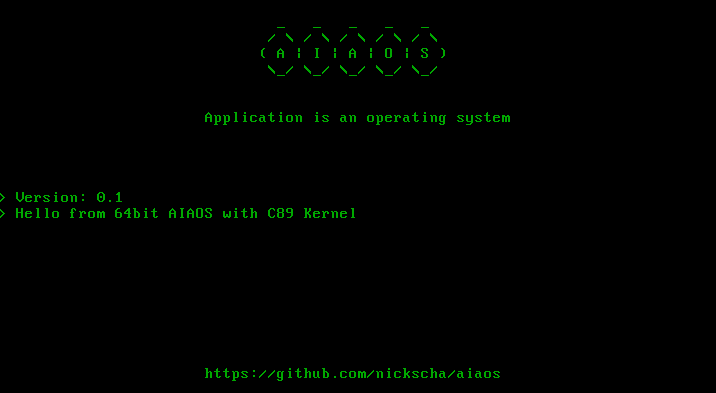
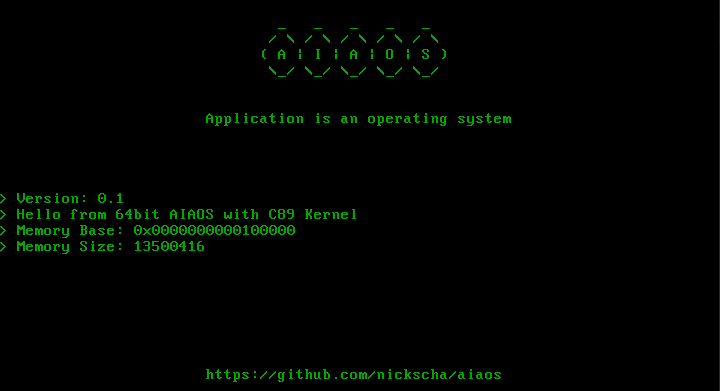
[CORE] upper memory detection INT 0x15, EAX=0xE820

diff --git a/aiaos_kernel.c b/aiaos_kernel.c
@@ -8,6 +8,8 @@ LICENSE
   See end of file for detailed license information.
 
 */
+#include "aiaos_kernel_memory.h"
+
 #define VGA_COLUMNS_NUM 80
 #define VGA_ROWS_NUM 25
 #define VGA_MEMORY (volatile char *)0xB8000
@@ -37,14 +39,76 @@ void vga_write_string(const char *str, int row_offset, int col_offset, char colo
     }
 }
 
+void reverse(char *str, int len)
+{
+    int i = 0;
+    int j = len - 1;
+    char temp;
+    while (i < j)
+    {
+        temp = str[i];
+        str[i] = str[j];
+        str[j] = temp;
+        i++;
+        j--;
+    }
+}
+
+void ultoa(unsigned long value, char *buffer)
+{
+    int i = 0;
+
+    if (value == 0)
+    {
+        buffer[i++] = '0';
+        buffer[i] = '\0';
+        return;
+    }
+
+    while (value > 0)
+    {
+        unsigned long digit = value % 10;
+        buffer[i++] = (char)('0' + digit);
+        value /= 10;
+    }
+
+    buffer[i] = '\0';
+    reverse(buffer, i);
+}
+
+void *ptr_to_string(void *ptr)
+{
+    static char buffer[19]; /* "0x" + 16 hex digits + null terminator */
+    unsigned long value = (unsigned long)(unsigned long *)ptr;
+    int i = 0;
+    int shift;
+    char hex_chars[] = "0123456789abcdef";
+
+    buffer[i++] = '0';
+    buffer[i++] = 'x';
+
+    /* Write 16 hex digits, most significant nibble first */
+    for (shift = (sizeof(unsigned long) * 8) - 4; shift >= 0; shift -= 4)
+    {
+        char digit = (char)((value >> shift) & 0xF);
+        buffer[i++] = hex_chars[(int)digit];
+    }
+
+    buffer[i] = '\0';
+    return (void *)buffer;
+}
+
 void _start_kernel(void)
 {
     int aiaos_logo_length = 23;
     int aiaos_logo_col_offset = (VGA_COLUMNS_NUM - aiaos_logo_length) / 2;
     int aiaos_logo_row_offset = 1;
     int aiaos_logo_long_col_offset = (VGA_COLUMNS_NUM - 34) / 2;
+    char buf[21];
 
     vga_clear_screen();
+
+    aiaos_kernel_memory_initialize();
 
     /* Logo and Header Text */
     vga_write_string("   _   _   _   _   _", aiaos_logo_row_offset++, aiaos_logo_col_offset, 0x02);
@@ -53,9 +117,17 @@ void _start_kernel(void)
     vga_write_string("  \\_/ \\_/ \\_/ \\_/ \\_/", aiaos_logo_row_offset++, aiaos_logo_col_offset, 0x02);
     vga_write_string("Application is an operating system", aiaos_logo_row_offset += 2, aiaos_logo_long_col_offset, 0x02);
 
-    /* Information */
+    /* General Information */
     vga_write_string("> Version: 0.1", 12, 0, 0x02);
     vga_write_string("> Hello from 64bit AIAOS with C89 Kernel", 13, 0, 0x02);
+
+    /* Available Memory Infomration */
+    vga_write_string("> Memory Base:", 14, 0, 0x02);
+    vga_write_string((char *)ptr_to_string(aiaos_kernel_memory), 14, 15, 0x02);
+
+    ultoa(aiaos_kernel_memory_size, buf);
+    vga_write_string("> Memory Size:", 15, 0, 0x02);
+    vga_write_string(buf, 15, 15, 0x02);
 
     /* Footer */
     vga_write_string("https://github.com/nickscha/aiaos", 23, aiaos_logo_long_col_offset, 0x02);

diff --git a/aiaos_kernel_memory.h b/aiaos_kernel_memory.h
@@ -1,0 +1,35 @@
+#ifndef AIAOS_KERNEL_MEMORY_H
+#define AIAOS_KERNEL_MEMORY_H
+
+typedef struct aiaos_kernel_memory_e820_entry
+{
+    unsigned long base;
+    unsigned long length;
+    unsigned int type;
+    unsigned int acpi_ext;
+} aiaos_kernel_memory_e820_entry;
+
+#define AIAOS_KERNEL_MEMORY_E820_MAP_ADDRESS ((aiaos_kernel_memory_e820_entry *)0x5000)
+#define AIAOS_KERNEL_MEMORY_E820_MAP_COUNT (*(unsigned short *)0x4FF0)
+
+static void *aiaos_kernel_memory = 0;
+static unsigned long aiaos_kernel_memory_size = 0;
+
+void aiaos_kernel_memory_initialize(void)
+{
+    int i;
+    for (i = 0; i < AIAOS_KERNEL_MEMORY_E820_MAP_COUNT; ++i)
+    {
+        aiaos_kernel_memory_e820_entry *entry = &AIAOS_KERNEL_MEMORY_E820_MAP_ADDRESS[i];
+
+        /* Type 1 means usable RAM */
+        if (entry->type == 1 && entry->length >= 1024 * 1024)
+        {
+            aiaos_kernel_memory = (void *)(unsigned long)entry->base;
+            aiaos_kernel_memory_size = (unsigned long)entry->length;
+            break;
+        }
+    }
+}
+
+#endif /* AIAOS_KERNEL_MEMORY_H */
